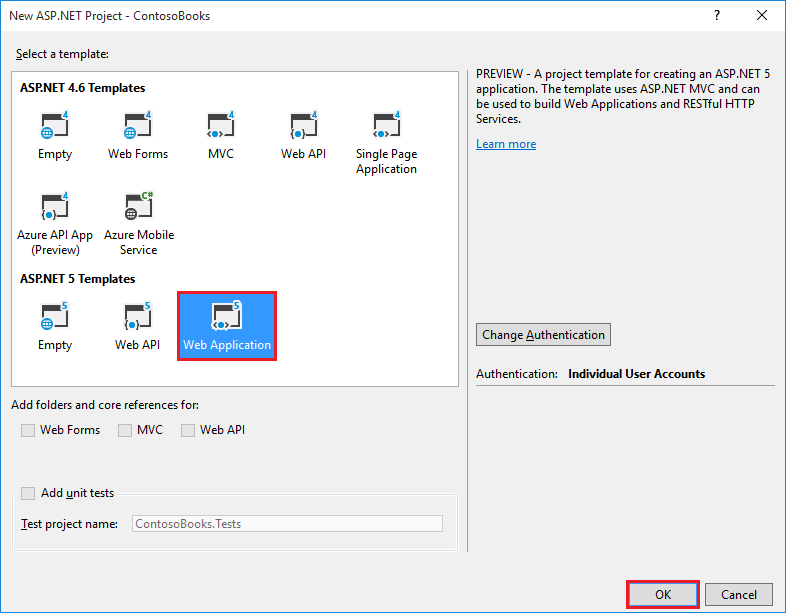
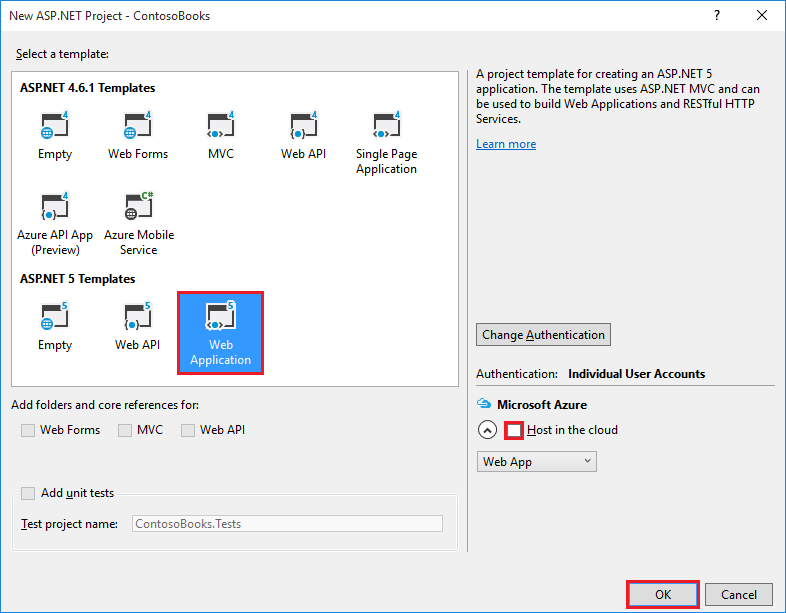
First App - Update to step and image.

diff --git a/aspnet/tutorials/your-first-aspnet-application.rst b/aspnet/tutorials/your-first-aspnet-application.rst
@@ -24,7 +24,7 @@ Select the **ASP.NET Web Application** project template. It appears under **Inst
 
 .. image:: your-first-aspnet-application/_static/02-new-project.png
 
-In the **New Project** dialog, select **Web Site** under **ASP.NET 5 Preview Templates**.
+In the **New ASP.NET Project** dialog, select **Web Application** under **ASP.NET 5 Preview Templates**. Also, make sure the **Host in the cloud** checkbox is not selected and click **OK**.
 
 .. image:: your-first-aspnet-application/_static/03-web-site-template.png
 
